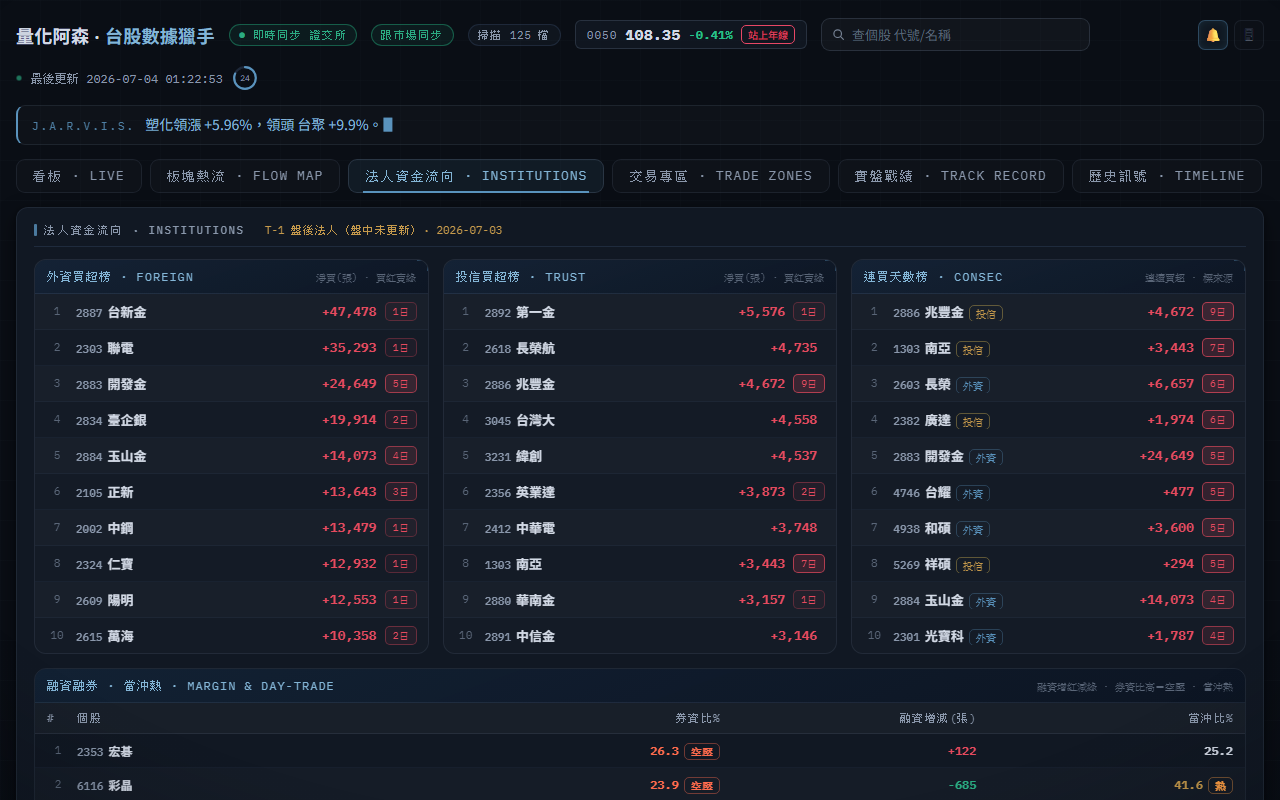
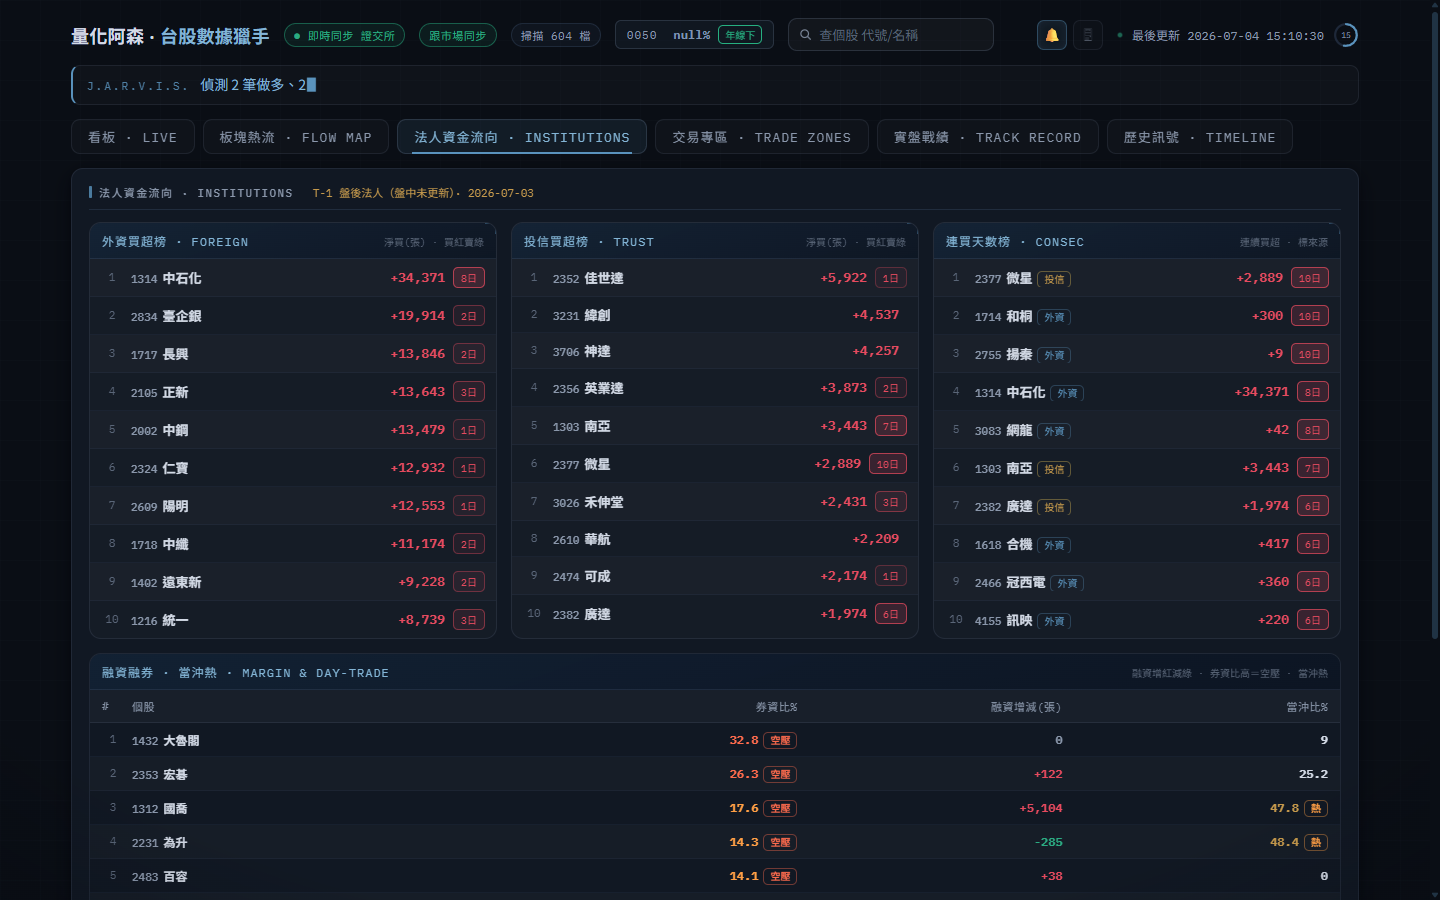
fix: full-market scan 604+ stocks — fix app.py universe, batch download, mkdir cache
- app.py: load_full_universe() instead of all_codes() (125→1900+ target)
- scan.py: yfinance batch for chunks >50 stocks (fast); twstock per-stock only for ≤50 (accurate)
- scan.py: CACHE_DIR.mkdir(parents=True, exist_ok=True) — auto-create cache dir
- docs: new screenshots showing 掃描 604 檔 (was 125)
- README_EN.md: pip install from GitHub instead of PyPI

Claude-Session: https://claude.ai/code/session_019xREbrRQVQ4dMLwAgcwvEZ

diff --git a/app.py b/app.py
@@ -42,10 +42,10 @@ def _market_hours() -> bool:
 
 def worker():
     """背景掃描迴圈：每天刷快取 + 即時同步掃描 + 推播 + 每日全市場交易專區。"""
-    rows = scan.all_codes()              # 精選宇宙(快、可即時同步)
+    rows = scan.load_full_universe()     # 全市場(~1900 檔上市櫃)
     last_fresh: date | None = None
     zones_day: date | None = None
-    print(f"[app] 背景掃描啟動（精選 {len(rows)} 檔，跟市場同步）")
+    print(f"[app] 背景掃描啟動（全市場 {len(rows)} 檔）")
     while True:
         mh = _market_hours()
         try:

diff --git a/scan.py b/scan.py
@@ -37,6 +37,7 @@ import pandas as pd
 
 HERE = Path(__file__).resolve().parent
 CACHE_DIR = HERE / "cache"
+CACHE_DIR.mkdir(parents=True, exist_ok=True)
 STATE_FILE = HERE / "state.json"
 SIG_LOG = HERE / "signals_log.json"    # 已推過的訊號(去重)
 HIST_FILE = HERE / "history.json"      # 當日已確認訊號流水(給看板回顧)
@@ -190,7 +191,8 @@ def _bulk_yf(codes: list[str], suffix: str, intraday: bool = False,
     out: dict[str, pd.DataFrame] = {}
     # 日線一律走 twstock 官方(證交所/櫃買)：yfinance 抓台股不可靠——上櫃全錯(環球晶6488 786vs官方1105)、
     # 部分上市也錯/過時。twstock 是官方源、上市上櫃皆正確。intraday 仍走 yfinance(twstock 無分時；即時另有 realtime 覆蓋)。
-    if not intraday:
+    # 精選宇宙(<=50檔)走 twstock 官方逐檔(正確)；全市場(120檔/批)走 yfinance 批量(快)
+    if not intraday and len(codes) <= 50:
         try:
             import twse_price as _tp
             for c in codes:

diff --git a/README_EN.md b/README_EN.md
@@ -1,7 +1,7 @@
 # tw-stock-radar 🎯
 
 ![Python](https://img.shields.io/badge/Python-3.9+-blue?logo=python&logoColor=white)
-![PyPI](https://img.shields.io/pypi/v/tw-stock-radar?color=blue)
+![Install](https://img.shields.io/badge/install-pip%20from%20GitHub-blue)
 ![License](https://img.shields.io/badge/License-MIT-green)
 ![Tests](https://img.shields.io/badge/Tests-109%20passing-brightgreen)
 ![Data](https://img.shields.io/badge/Data-100%25%20free%20open%20data-orange)
@@ -67,9 +67,9 @@ Retail outflow + institutional accumulation = classic smart money setup.
 
 ## Quick Start
 
-**Option A — pip install (recommended):**
+**Option A — pip install from GitHub (no PyPI required):**
 ```bash
-pip install tw-stock-radar
+pip install git+https://github.com/carsonchou/tw-stock-radar
 tw-stock-radar          # → http://localhost:8899
 ```
 